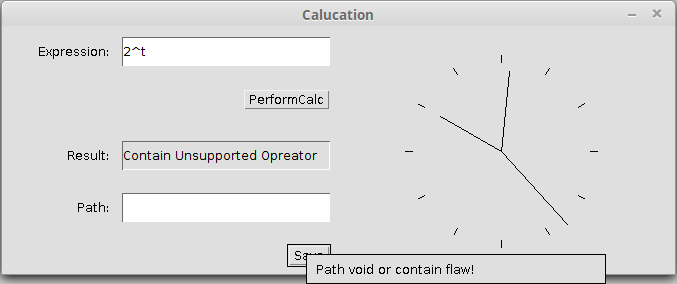
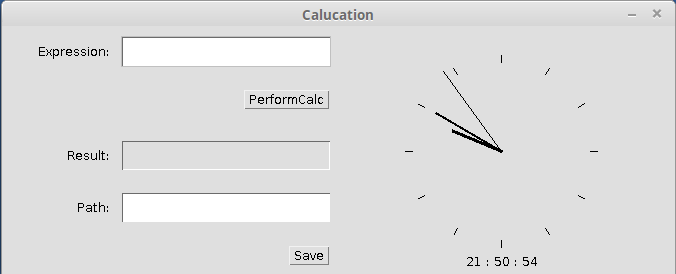
1.Обвил примеры картинок 2.Сделал разной толщины стрелки 3.Сделал смещающеюся стрелку часов.

diff --git a/com.gmail.andreyksu.guiproject/src/main/java/com/gmail/andreyksu/viewpack/PanelClock.java b/com.gmail.andreyksu.guiproject/src/main/java/com/gmail/andreyksu/viewpack/PanelClock.java
@@ -1,6 +1,8 @@
 package com.gmail.andreyksu.viewpack;
 
 import java.awt.*;
+import java.awt.geom.Line2D;
+import java.awt.geom.Rectangle2D;
 
 import com.gmail.andreyksu.controlpack.ICalcController;
 
@@ -26,7 +28,8 @@ public class PanelClock extends Panel {
         repaint();
     }
 
-    public void paint(Graphics g) {
+    public void paint(Graphics gr) {
+        Graphics2D g = (Graphics2D) gr;
         int R1 = 89, R2 = 96;
         int dx = 160, dy = 120;
         int[] xy1, xy2;
@@ -41,15 +44,38 @@ public class PanelClock extends Panel {
             xySec = getXY(R2 + 3, seconds, 60, dx, dy, -Math.PI / 2);
             g.drawLine(dx, dy, xySec[0], xySec[1]);
 
-            xyMin = getXY(R2 - 15, minut, 60, dx, dy, -Math.PI / 2);
+            xyMin = getXY(R2 - 20, minut, 60, dx, dy, -Math.PI / 2);
+
+            BasicStroke minuteline = new BasicStroke(2);
+            g.setStroke(minuteline);
+            g.draw(new Line2D.Double(dx, dy, xyMin[0], xyMin[1]));
+
             g.drawLine(dx, dy, xyMin[0], xyMin[1]);
 
-            xyHour = getXY(R2 - 25, hour, 12, dx, dy, -Math.PI / 2);
+            xyHour = getXY(R2 - 43, hour, 12, dx, dy,
+                    -Math.PI / 2 + getOffsetForHours());
+            BasicStroke hoursline = new BasicStroke(3);
+            g.setStroke(hoursline);
+            g.draw(new Line2D.Double(dx, dy, xyHour[0], xyHour[1]));
+
             g.drawLine(dx, dy, xyHour[0], xyHour[1]);
 
             g.drawString(hour + " : " + minut + " : " + seconds, 125, 235);
         }
 
+    }
+
+    private double getOffsetForHours() {
+        double offsetHour = 0;
+        if (minut < 5)
+            offsetHour = 0;
+        else if (minut < 30)
+            offsetHour = Math.PI / 24;
+        else if (minut < 45)
+            offsetHour = 2 * Math.PI / 24;
+        else if (minut < 61)
+            offsetHour = 3 * Math.PI / 24;
+        return offsetHour;
     }
 
     private int[] getXY(int R, int k, int d, int x, int y, double rad) {
